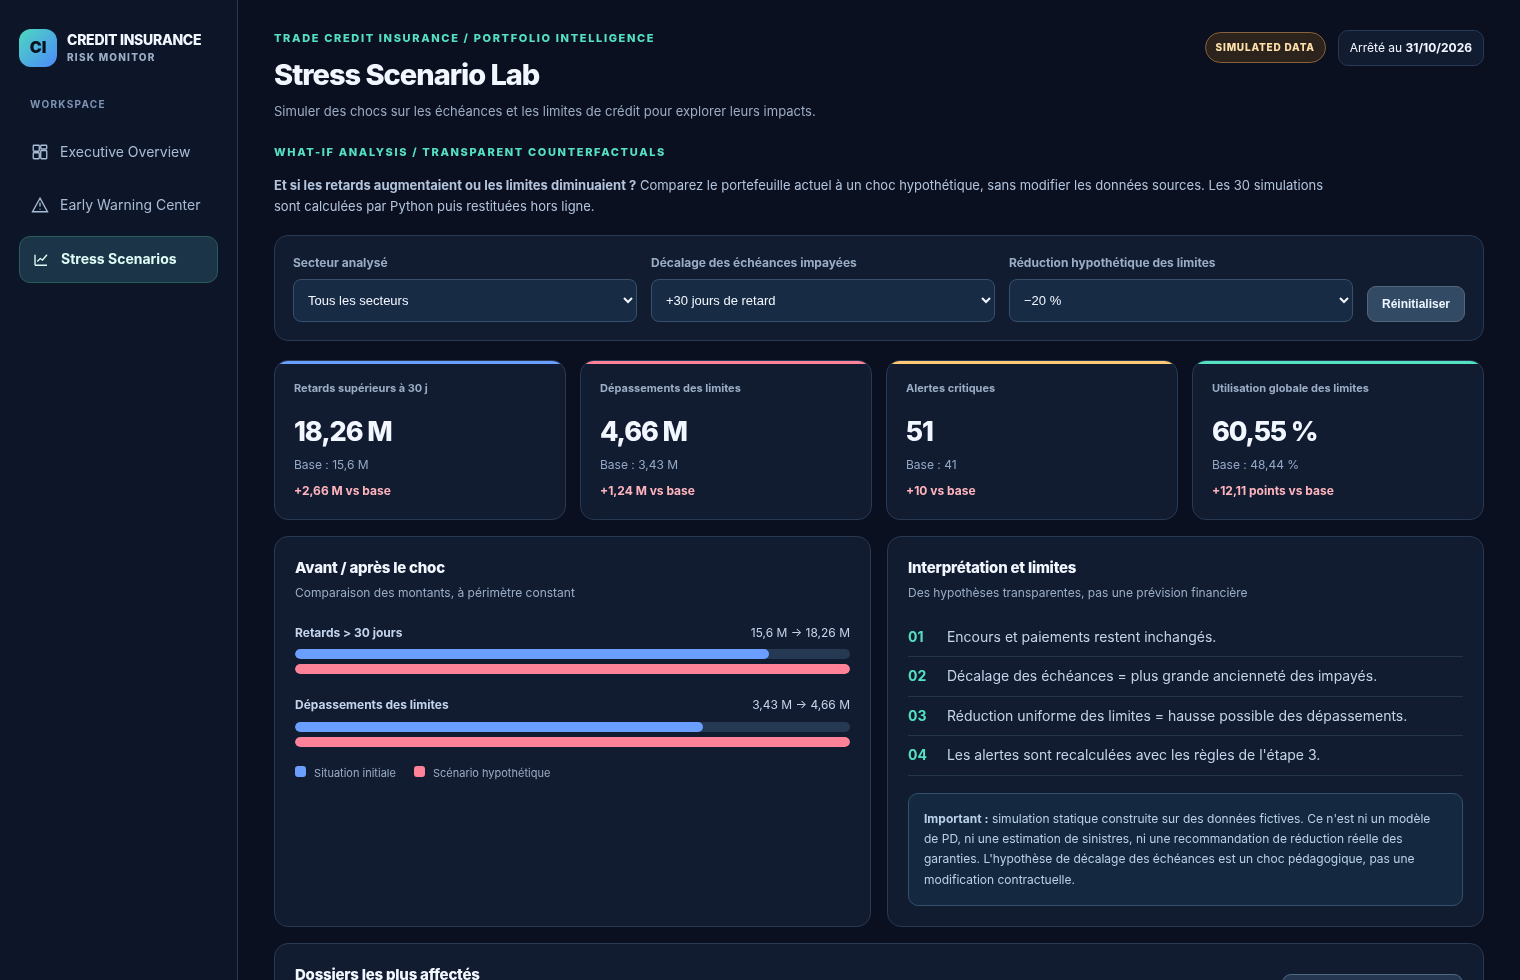
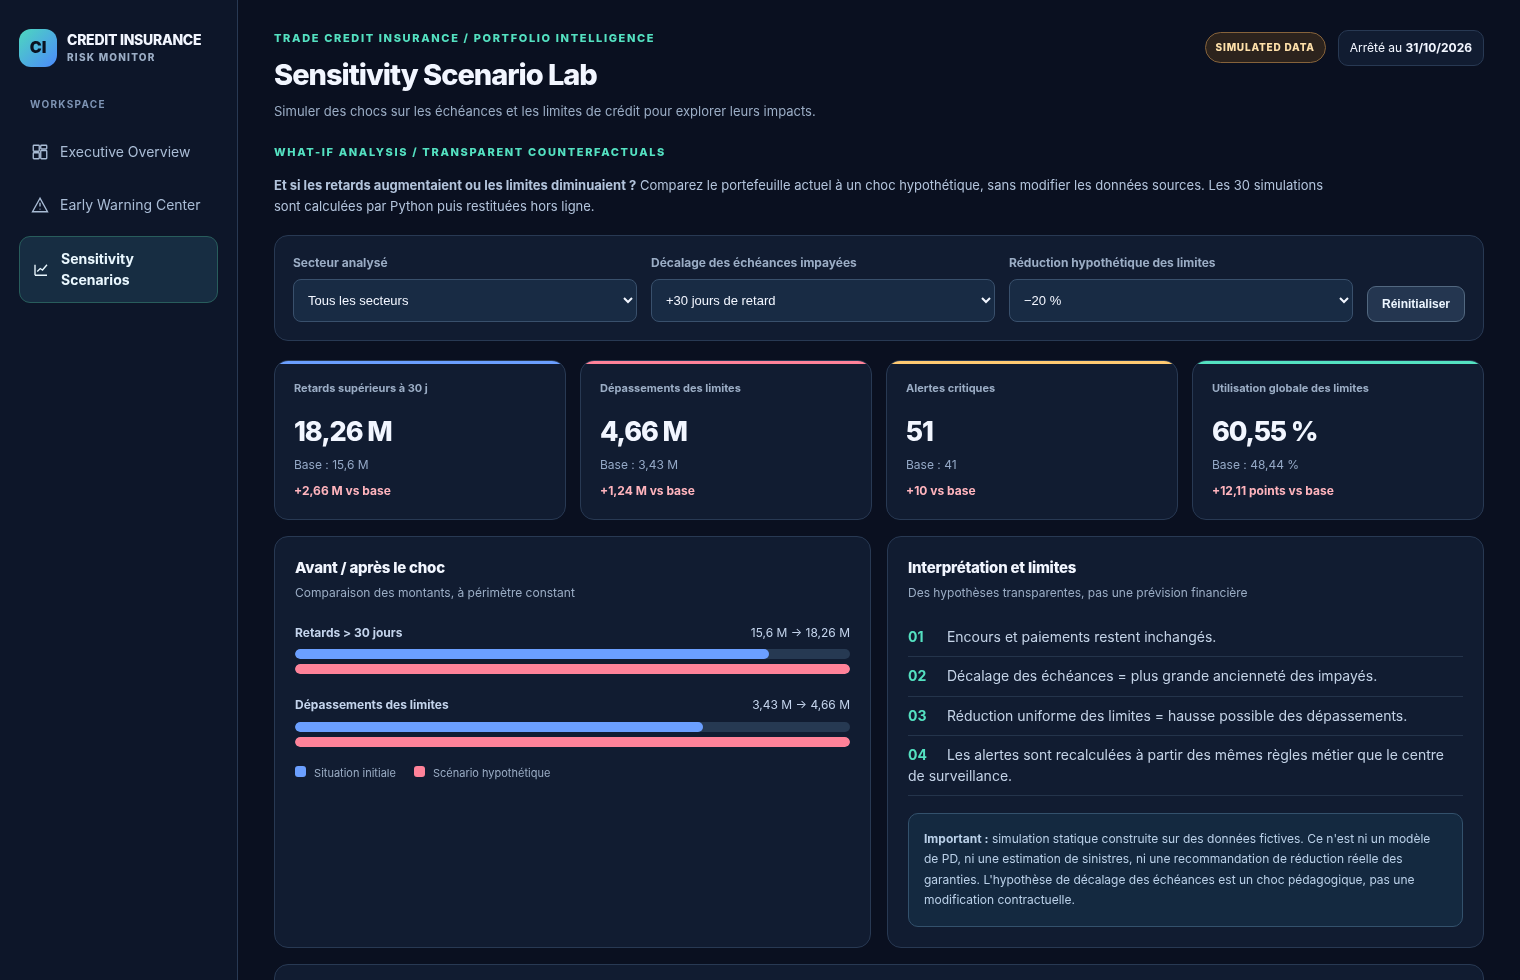
Finish public cleanup and add MIT license

diff --git a/dashboard/index.html b/dashboard/index.html
@@ -58,7 +58,7 @@
 <div class="app">
   <aside class="aside">
     <div class="brand"><div class="brandmark">CI</div><div class="brandtxt">CREDIT INSURANCE<span>RISK MONITOR</span></div></div>
-    <nav class="nav" aria-label="Navigation"><div class="navtag">Workspace</div><a class="navitem on" id="navOverview" href="#overview" title="Executive Overview"><svg width="18" height="18" fill="none" stroke="currentColor" stroke-width="1.8" viewBox="0 0 24 24"><rect x="3" y="3" width="8" height="8" rx="1"/><rect x="13" y="3" width="8" height="5" rx="1"/><rect x="13" y="10" width="8" height="11" rx="1"/><rect x="3" y="13" width="8" height="8" rx="1"/></svg><span>Executive Overview</span></a><a class="navitem" id="navWarnings" href="#warnings" title="Early Warning Center"><svg width="18" height="18" fill="none" stroke="currentColor" stroke-width="1.8" viewBox="0 0 24 24"><path d="M12 3 2 21h20L12 3zM12 9v5m0 3v1"/></svg><span>Early Warning Center</span></a><a class="navitem" id="navStress" href="#stress" title="Stress Scenarios"><svg width="18" height="18" fill="none" stroke="currentColor" stroke-width="1.8" viewBox="0 0 24 24"><path d="M4 19h16M4 5v14m3-5 4-4 3 2 6-7"/></svg><span>Stress Scenarios</span></a></nav>
+    <nav class="nav" aria-label="Navigation"><div class="navtag">Workspace</div><a class="navitem on" id="navOverview" href="#overview" title="Executive Overview"><svg width="18" height="18" fill="none" stroke="currentColor" stroke-width="1.8" viewBox="0 0 24 24"><rect x="3" y="3" width="8" height="8" rx="1"/><rect x="13" y="3" width="8" height="5" rx="1"/><rect x="13" y="10" width="8" height="11" rx="1"/><rect x="3" y="13" width="8" height="8" rx="1"/></svg><span>Executive Overview</span></a><a class="navitem" id="navWarnings" href="#warnings" title="Early Warning Center"><svg width="18" height="18" fill="none" stroke="currentColor" stroke-width="1.8" viewBox="0 0 24 24"><path d="M12 3 2 21h20L12 3zM12 9v5m0 3v1"/></svg><span>Early Warning Center</span></a><a class="navitem" id="navStress" href="#stress" title="Sensitivity Scenarios"><svg width="18" height="18" fill="none" stroke="currentColor" stroke-width="1.8" viewBox="0 0 24 24"><path d="M4 19h16M4 5v14m3-5 4-4 3 2 6-7"/></svg><span>Sensitivity Scenarios</span></a></nav>
     <div class="aside-foot"><span class="status"></span><strong>Offline &amp; ready</strong><p>Données fictives, génération locale, aucune connexion Internet requise.</p>Simulation · Données synthétiques</div>
   </aside>
   <main>
@@ -182,7 +182,7 @@ function showView(section){
   const warnings=section==='warnings',stress=section==='stress';
   $('viewOverview').hidden=warnings||stress;$('viewWarnings').hidden=!warnings;$('viewStress').hidden=!stress;
   $('navOverview').classList.toggle('on',!warnings&&!stress);$('navWarnings').classList.toggle('on',warnings);$('navStress').classList.toggle('on',stress);
-  $('pageTitle').textContent=stress?'Stress Scenario Lab':warnings?'Early Warning Center':'Executive Risk Overview';
+  $('pageTitle').textContent=stress?'Sensitivity Scenario Lab':warnings?'Early Warning Center':'Executive Risk Overview';
   $('pageSubtitle').textContent=stress?'Simuler des chocs sur les échéances et les limites de crédit pour explorer leurs impacts.':warnings?"Détection explicable des signaux d'alerte et priorisation des dossiers à examiner.":"Surveillance des créances, de l'utilisation des limites et de la concentration des expositions.";
   if(warnings) updateWarnings();
   if(stress) updateStress();

diff --git a/dashboard/template.html b/dashboard/template.html
@@ -58,7 +58,7 @@
 <div class="app">
   <aside class="aside">
     <div class="brand"><div class="brandmark">CI</div><div class="brandtxt">CREDIT INSURANCE<span>RISK MONITOR</span></div></div>
-    <nav class="nav" aria-label="Navigation"><div class="navtag">Workspace</div><a class="navitem on" id="navOverview" href="#overview" title="Executive Overview"><svg width="18" height="18" fill="none" stroke="currentColor" stroke-width="1.8" viewBox="0 0 24 24"><rect x="3" y="3" width="8" height="8" rx="1"/><rect x="13" y="3" width="8" height="5" rx="1"/><rect x="13" y="10" width="8" height="11" rx="1"/><rect x="3" y="13" width="8" height="8" rx="1"/></svg><span>Executive Overview</span></a><a class="navitem" id="navWarnings" href="#warnings" title="Early Warning Center"><svg width="18" height="18" fill="none" stroke="currentColor" stroke-width="1.8" viewBox="0 0 24 24"><path d="M12 3 2 21h20L12 3zM12 9v5m0 3v1"/></svg><span>Early Warning Center</span></a><a class="navitem" id="navStress" href="#stress" title="Stress Scenarios"><svg width="18" height="18" fill="none" stroke="currentColor" stroke-width="1.8" viewBox="0 0 24 24"><path d="M4 19h16M4 5v14m3-5 4-4 3 2 6-7"/></svg><span>Stress Scenarios</span></a></nav>
+    <nav class="nav" aria-label="Navigation"><div class="navtag">Workspace</div><a class="navitem on" id="navOverview" href="#overview" title="Executive Overview"><svg width="18" height="18" fill="none" stroke="currentColor" stroke-width="1.8" viewBox="0 0 24 24"><rect x="3" y="3" width="8" height="8" rx="1"/><rect x="13" y="3" width="8" height="5" rx="1"/><rect x="13" y="10" width="8" height="11" rx="1"/><rect x="3" y="13" width="8" height="8" rx="1"/></svg><span>Executive Overview</span></a><a class="navitem" id="navWarnings" href="#warnings" title="Early Warning Center"><svg width="18" height="18" fill="none" stroke="currentColor" stroke-width="1.8" viewBox="0 0 24 24"><path d="M12 3 2 21h20L12 3zM12 9v5m0 3v1"/></svg><span>Early Warning Center</span></a><a class="navitem" id="navStress" href="#stress" title="Sensitivity Scenarios"><svg width="18" height="18" fill="none" stroke="currentColor" stroke-width="1.8" viewBox="0 0 24 24"><path d="M4 19h16M4 5v14m3-5 4-4 3 2 6-7"/></svg><span>Sensitivity Scenarios</span></a></nav>
     <div class="aside-foot"><span class="status"></span><strong>Offline &amp; ready</strong><p>Données fictives, génération locale, aucune connexion Internet requise.</p>Simulation · Données synthétiques</div>
   </aside>
   <main>
@@ -182,7 +182,7 @@ function showView(section){
   const warnings=section==='warnings',stress=section==='stress';
   $('viewOverview').hidden=warnings||stress;$('viewWarnings').hidden=!warnings;$('viewStress').hidden=!stress;
   $('navOverview').classList.toggle('on',!warnings&&!stress);$('navWarnings').classList.toggle('on',warnings);$('navStress').classList.toggle('on',stress);
-  $('pageTitle').textContent=stress?'Stress Scenario Lab':warnings?'Early Warning Center':'Executive Risk Overview';
+  $('pageTitle').textContent=stress?'Sensitivity Scenario Lab':warnings?'Early Warning Center':'Executive Risk Overview';
   $('pageSubtitle').textContent=stress?'Simuler des chocs sur les échéances et les limites de crédit pour explorer leurs impacts.':warnings?"Détection explicable des signaux d'alerte et priorisation des dossiers à examiner.":"Surveillance des créances, de l'utilisation des limites et de la concentration des expositions.";
   if(warnings) updateWarnings();
   if(stress) updateStress();

diff --git a/run.py b/run.py
@@ -1,4 +1,4 @@
-"""Stage 1 - deterministic ingestion and historical portfolio KPIs."""
+"""Deterministic ingestion and historical portfolio KPIs."""
 from __future__ import annotations
 import argparse
 import csv
@@ -41,7 +41,7 @@ def main(as_of: date) -> dict:
 
 
 if __name__=='__main__':
-    parser=argparse.ArgumentParser(description='Educational trade credit insurance portfolio monitor, stage 1')
+    parser=argparse.ArgumentParser(description='Educational trade credit insurance portfolio monitor')
     parser.add_argument('--as-of',default='2026-10-31',help='YYYY-MM-DD; historical snapshot cutoff')
     args=parser.parse_args()
     print(json.dumps(main(date.fromisoformat(args.as_of)),indent=2,ensure_ascii=False))

diff --git a/tests/test_stress.py b/tests/test_stress.py
@@ -1,4 +1,4 @@
-"""Stage 4 regression tests for reproducible static what-if scenarios."""
+"""Regression tests for reproducible static what-if scenarios."""
 import unittest
 from copy import deepcopy
 from build_dashboard import read_csv, prepare_payload

diff --git a/tests/test_dashboard.py b/tests/test_dashboard.py
@@ -1,4 +1,4 @@
-"""Compatibility and consistency tests for the Stage 2 dashboard."""
+"""Compatibility and consistency tests for the portfolio dashboard."""
 import json
 import unittest
 from pathlib import Path

diff --git a/tests/test_alerts.py b/tests/test_alerts.py
@@ -1,4 +1,4 @@
-"""Stage 3: deterministic and explainable alert business rules."""
+"""Deterministic and explainable alert business-rule tests."""
 import unittest
 from pathlib import Path
 import sys

diff --git a/src/__init__.py b/src/__init__.py
@@ -1,1 +1,1 @@
-"""Portfolio monitor stage 1 package."""
+"""Credit insurance portfolio monitoring package."""

diff --git a/README.md b/README.md
@@ -102,4 +102,4 @@ The test suite covers import consistency, historical payment logic, portfolio re
 
 `Python` · `SQLite` · `SQL` · `HTML / CSS / JavaScript` · `unittest` · `GitHub Actions` · `Power BI-ready CSVs` · `DAX examples`
 
-**License:** not yet selected. Publicly viewable source code does not automatically grant a third-party reuse license.
+**License:** [MIT License](LICENSE) — Copyright (c) 2026 Khaoula Nassiri.
